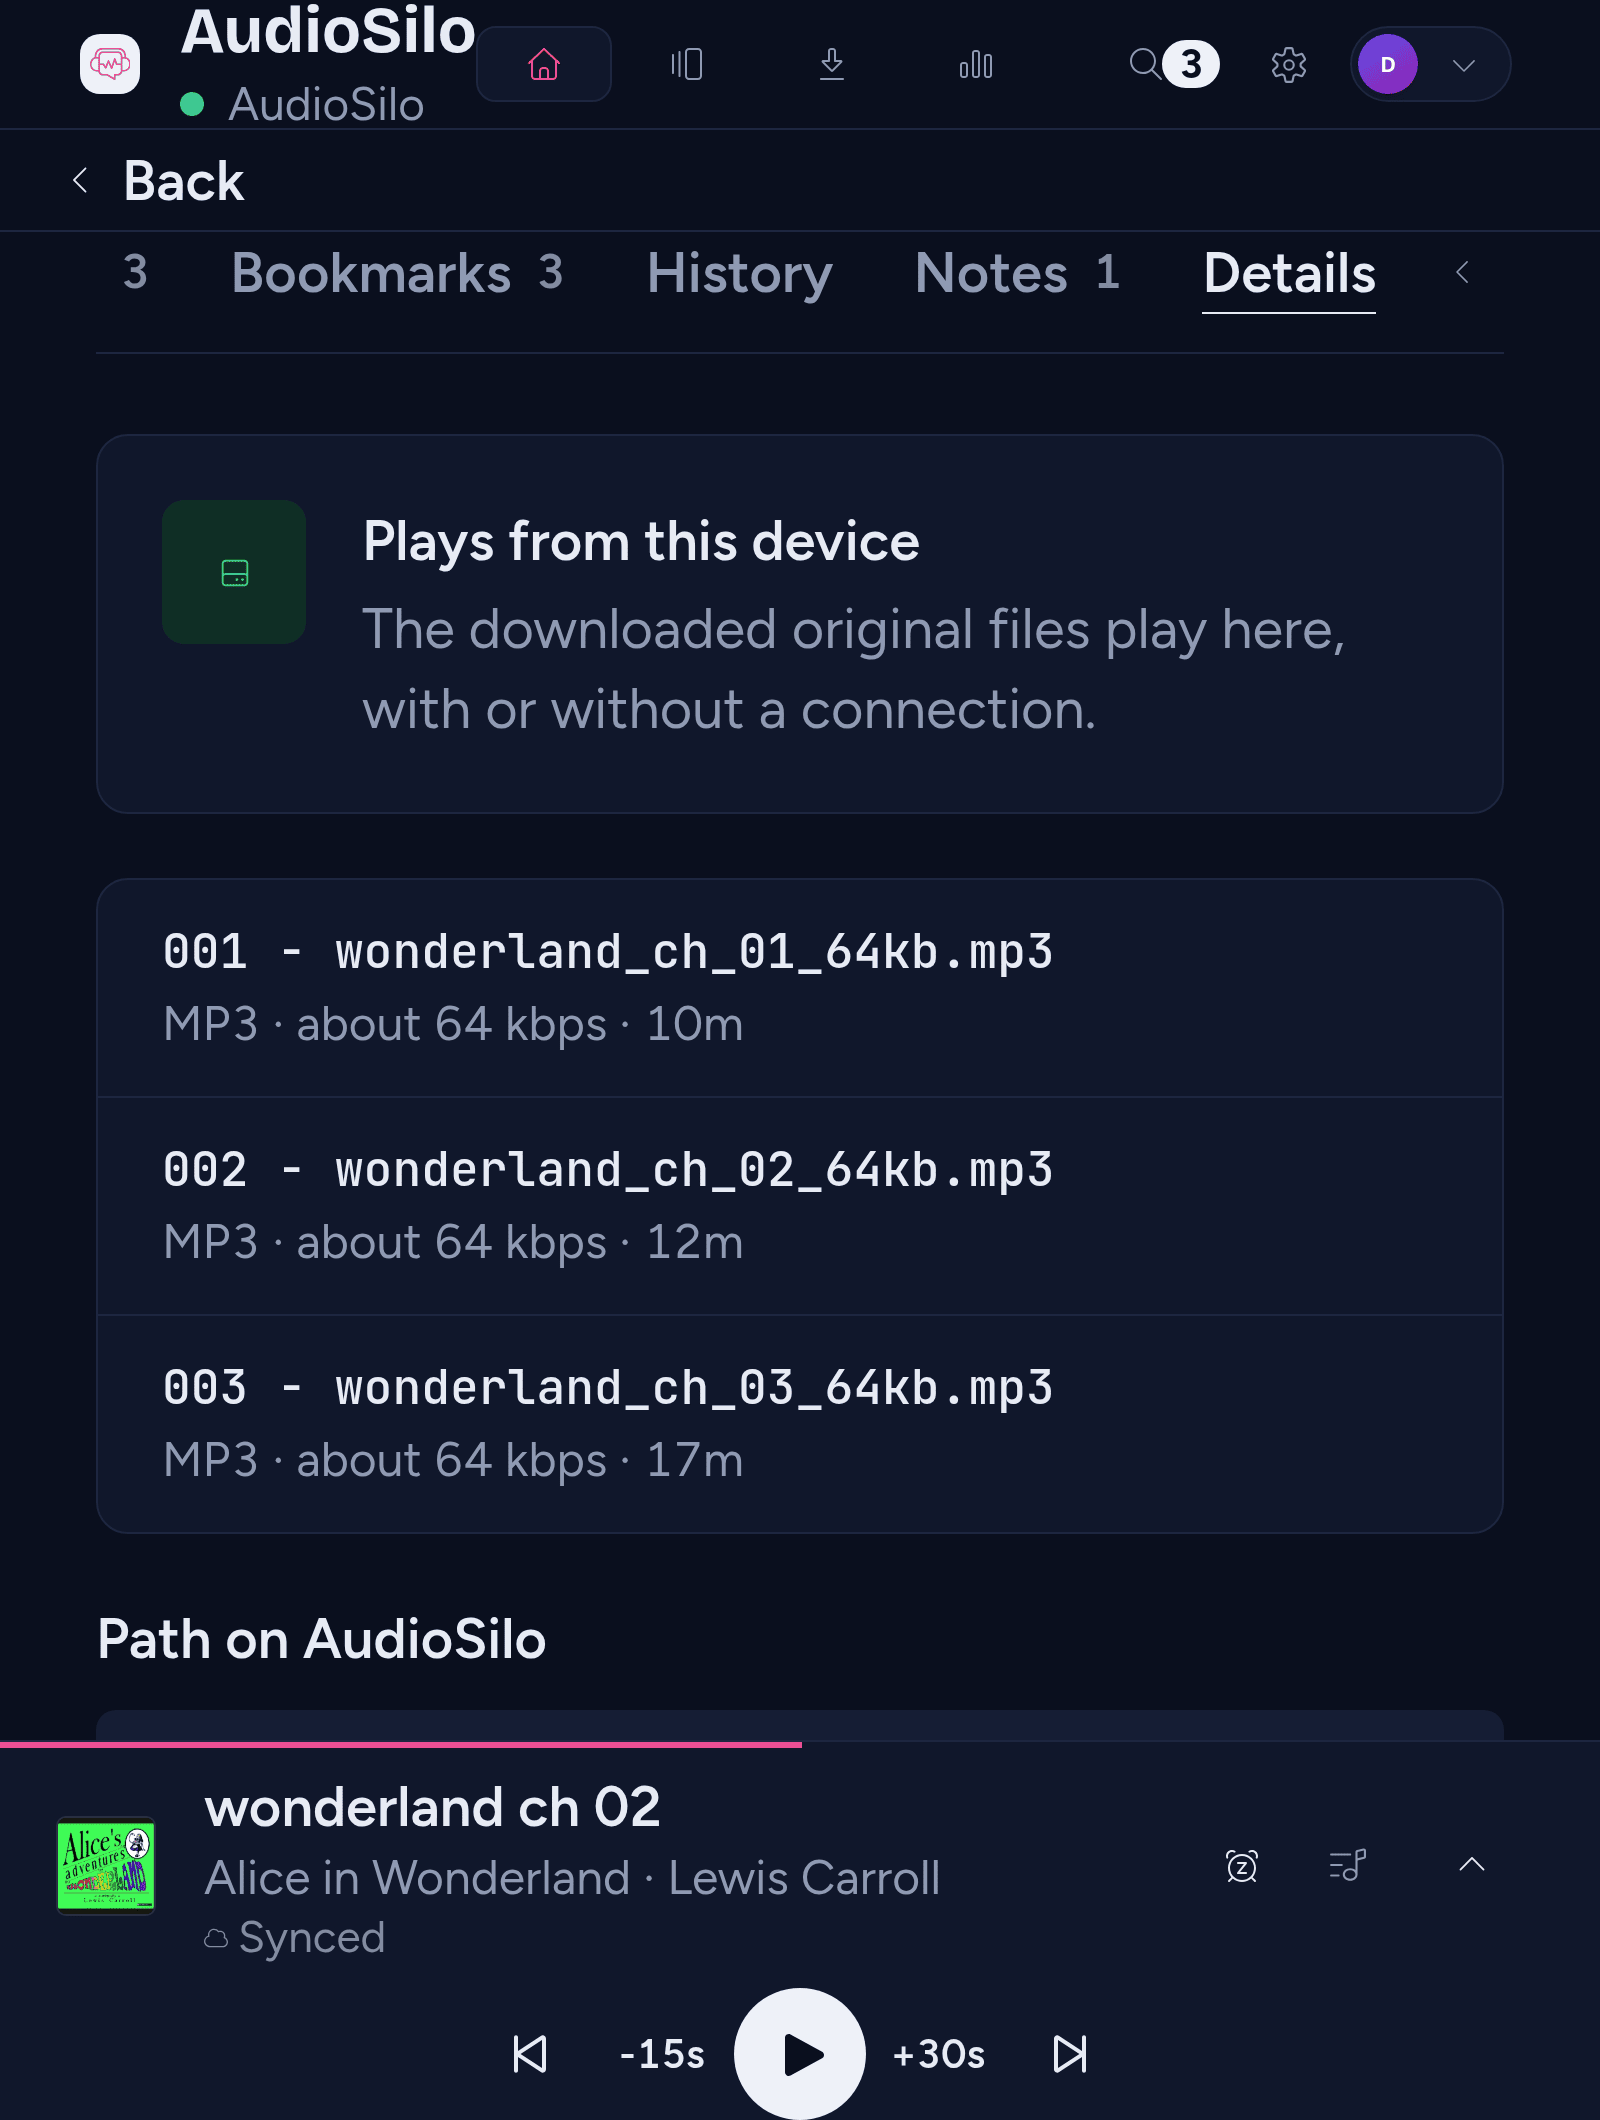
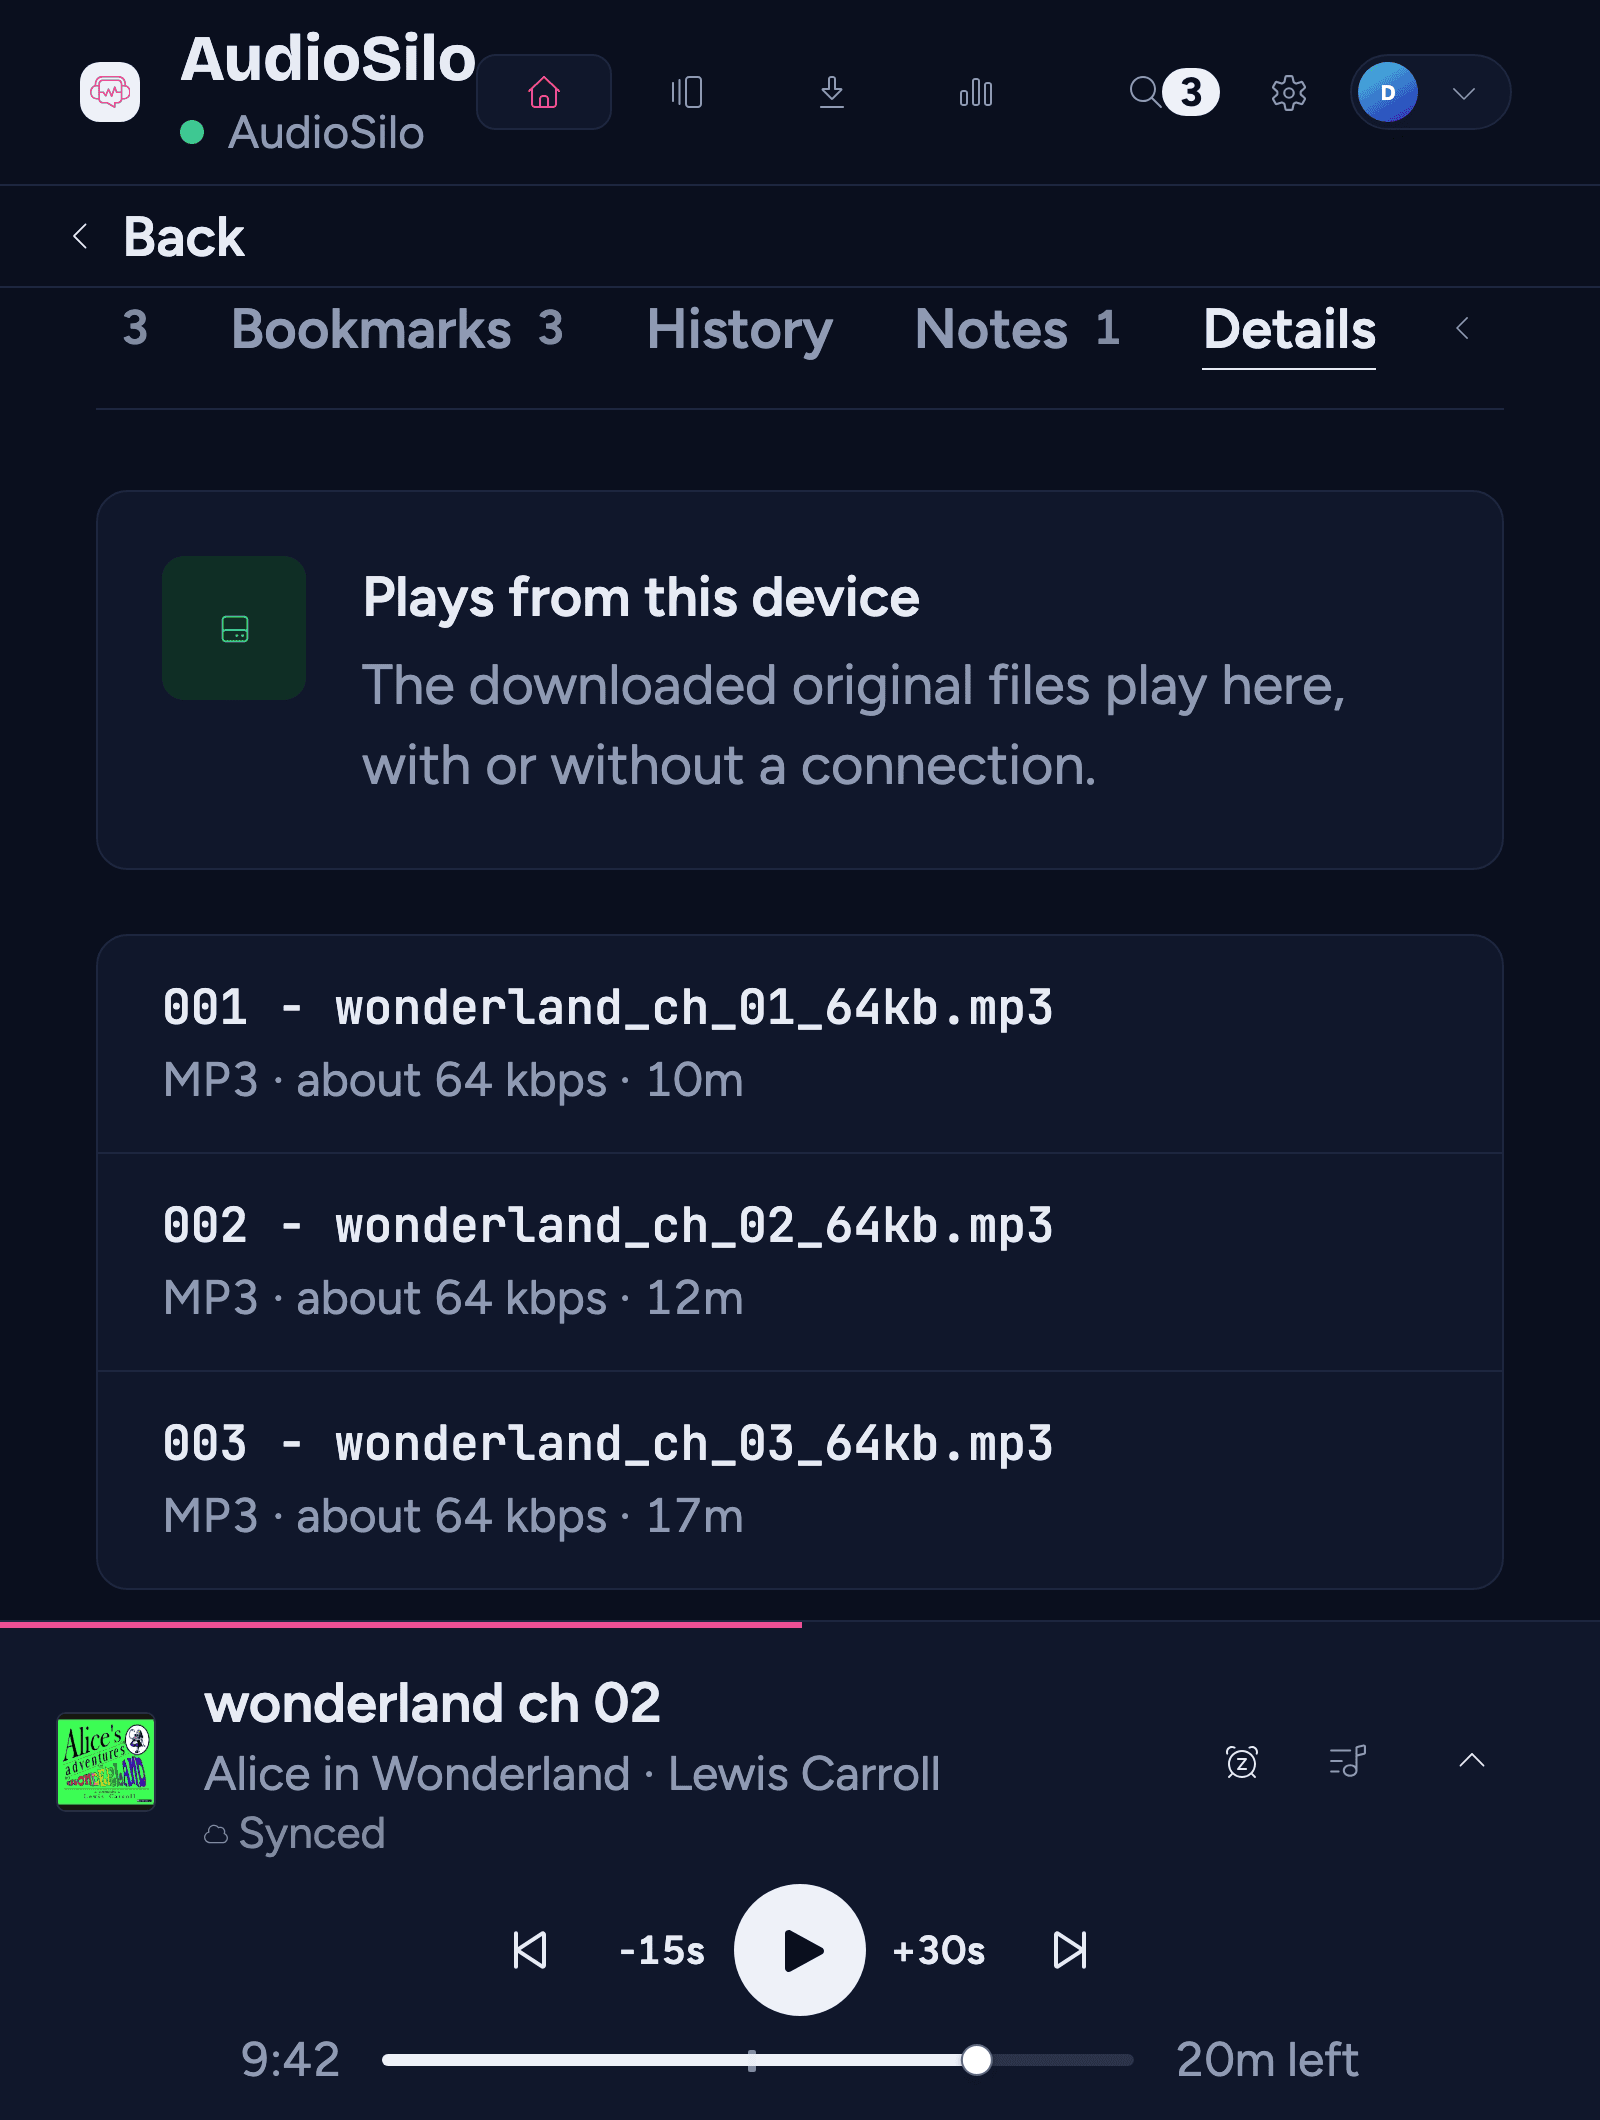
Document the dock's own scrubber row and the growing top bar
From 800 px the player bar now moves the transport and chapter
scrubber to their own row under larger text instead of shrinking or
hiding the scrubber, pads a grown row so the play button clears the
window edge, and the top bar grows with the text. Web tab labels wrap
only between words, a word too wide ending in an ellipsis. The
large-text Details shot is retaken: the play button and the
AudioSilo name are no longer cut.

diff --git a/docs-users/listening/settings.md b/docs-users/listening/settings.md
@@ -103,12 +103,13 @@ With large text, a setting's control moves below its name. Large headings, such 
 
 In the Library, titles and authors' names can wrap under their covers. Long folder names wrap too, and you can scroll the folder trail sideways. On a book's [Details](book-page.md#details) tab, each filename appears above its codec, bitrate and length.
 
-The play, skip and chapter buttons grow up to one and a half times their usual size. In the full player, the buttons and seek bar fit the width of your screen. On a tablet or computer, the [player bar](playback.md#the-mini-player-and-the-player-bar) can move them below the book.
+The play, skip and chapter buttons grow up to one and a half times their usual size. In the full player, the buttons and seek bar fit the width of your screen. On a tablet or computer, the [player bar](playback.md#the-mini-player-and-the-player-bar) can move them below the book, together with the chapter scrubber, so the scrubber stays wide enough to drag.
 
-![Book details with large text. Each filename has its details underneath, and the play and skip buttons sit below the book.](/img/screenshots/web-player/book-details-large-text.png)
+![Book details with large text. Each filename has its details underneath, and the play and skip buttons and the chapter scrubber sit below the book.](/img/screenshots/web-player/book-details-large-text.png)
 
 - On **Android**, a long tab name can end in three dots. With large text, only the selected tab shows its name, sized to fit. TalkBack still reads every name in full.
-- In a **phone browser**, all five tabs keep their names. With large text, a long name can wrap.
+- In a **phone browser**, all five tabs keep their names. With large text, a long name can wrap onto another line between words. A single word too long for its space ends in three dots.
+- On a **tablet or computer**, the top bar grows taller to fit the larger text.
 - On **iPhone**, text in the tab bar's player can grow by up to 30% so both lines fit. The back button shows the name of the page you came from, and a long name can wrap beside the page title.
 - The squares in your [listening calendar](you.md#the-charts) grow with the weekday labels.
 

diff --git a/docs-developers/frontend/player-ui.md b/docs-developers/frontend/player-ui.md
@@ -99,12 +99,23 @@ centre. The measured width of the bar determines which controls appear.
 
 **With larger text**, `dockLayout(width, fontScale)` scales the side-column
 estimates and reserves room for the transport, whose buttons grow up to 1.5x.
-So above 1x the bar needs more width for every action and for the chapter
-scrubber. When equal columns no longer fit, it checks the space left for the
-book. Above 1x it stacks the transport if that space would fall below `BOOK_MIN` (128 px).
-From 1.3x it stacks whenever the sides cannot be equal. The book and actions
-share the first row, with the transport beneath. All controls remain available
-in the full player.
+So above 1x the bar needs more width for every action.
+
+- **From 800 px** the chapter scrubber always shows. Its row needs `SCRUBBER_MIN`
+  (100 px of track) plus `SCRUBBER_LABELS` (about 200 px of time labels, scaled
+  with the text). When the side columns leave less than that between them, the
+  transport and scrubber move to their own row below the book and actions. That
+  row is `CENTRE_MAX` (560 px) wide, or wider when the text needs it. The
+  scrubber never shrinks below its minimum or hides.
+- **Below 800 px** there is no scrubber. When equal columns no longer fit, the
+  bar checks the space left for the book. Above 1x it stacks the transport if
+  that space would fall below `BOOK_MIN` (128 px). From 1.3x it stacks whenever
+  the sides cannot be equal.
+
+Stacked, the book and actions share the first row, with the transport beneath.
+Above 1x the row has 8 px of padding above and below (`GROWN_PAD_Y`), so the
+play button never sits on the window's bottom edge. All controls remain
+available in the full player.
 
 The `UndoChip` floats above the centre of the bar. A jump leaves the scrubber in
 place under the pointer.

diff --git a/docs-developers/frontend/shell.md b/docs-developers/frontend/shell.md
@@ -47,12 +47,15 @@ TalkBack gets each tab's full name.
 
 On the web, `PhoneTabBar` gives each tab one fifth of the width below large text.
 Long labels stay on one line and end in an ellipsis. At large text all five
-labels remain visible. They can share the space unevenly or wrap, with a 44 px
-minimum target per tab.
+labels remain visible. They can share the space unevenly and wrap, but only
+between words (`LARGE_LABEL_STYLE`: `wordWrap: normal` past react-native-web's
+`break-word`). A word wider than its slot ends in an ellipsis rather than
+breaking. Each tab keeps a 44 px minimum target.
 
 ### Tablet
 
-- **`TopBar`** is 64 high. It holds:
+- **`TopBar`** is at least 64 high (`min-h-[64px]`). With larger text it grows
+  with the mark and server line rather than cutting them. It holds:
   - the mark with a server line;
   - the Home, Library, Downloads and You destinations as icons;
   - the omnisearch field, or a search icon button that does the same when the
@@ -71,8 +74,9 @@ minimum target per tab.
 - The banners sit under the sub-nav.
 - The page is capped at 1480 wide (`CONTENT_WIDTH`).
 - **`DockedPlayer`** appears when a book is loaded and has an 84 px minimum row
-  height. With larger text, when the bar is too narrow for equal side columns,
-  the transport can move below the book and actions. See
+  height. With larger text, the transport (and from 800 px the chapter
+  scrubber with it) can move below the book and actions instead of shrinking
+  or hiding the scrubber. See
   [the docked player](player-ui.md#the-docked-player-tablet-and-desktop).
 - Up next opens as a bottom sheet.
 

diff --git a/docs-developers/frontend/styling.md b/docs-developers/frontend/styling.md
@@ -307,8 +307,9 @@ The rules are in the frontend `CONVENTIONS.md` ("Large text", "Touch targets",
   `TileCaption` lifts the title and byline limits, and each `BreadCrumbs`
   label can wrap to the measured width of its horizontal scroller. `ToggleGroup`
   and option tiles can wrap onto another row. Use minimum heights on rows that
-  may grow. The shell also adapts the
-  [phone tab labels](shell.md#phone) to the space available.
+  may grow, as the top bar's `min-h-[64px]` does. The shell also adapts the
+  [phone tab labels](shell.md#phone) to the space available: on the web they
+  wrap only between words, and a word too wide ends in an ellipsis.
 - **Display titles share a 2x cap.** `Text` applies `DISPLAY_MAX_FONT_SCALE` to
   `display` and `display-xl` through `maxFontSizeMultiplier` on native. On the
   web it supplies `--display-px`, one sixteenth of a rem capped at 2 px.

diff --git a/docs-users/listening/playback.md b/docs-users/listening/playback.md
@@ -19,7 +19,7 @@ While a book plays, a small player stays with you on every screen.
 
 After a jump, an [undo button](full-player.md#undo-a-jump) floats just above the bar.
 
-In a narrow window, the player bar hides some of these buttons. With [larger text](settings.md#text-size), the play and skip buttons can move below the book. The full player still has all the controls. The bookmark button marks where you are. See [Add bookmarks and notes](bookmarks-and-notes.md).
+In a narrow window, the player bar hides some of these buttons. With [larger text](settings.md#text-size), the play and skip buttons and the chapter scrubber can move below the book. The full player still has all the controls. The bookmark button marks where you are. See [Add bookmarks and notes](bookmarks-and-notes.md).
 
 ## Play to another speaker (AirPlay and Chromecast)
 
